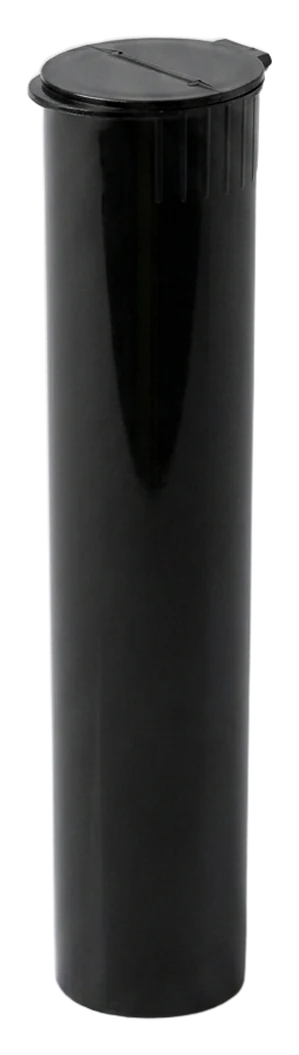
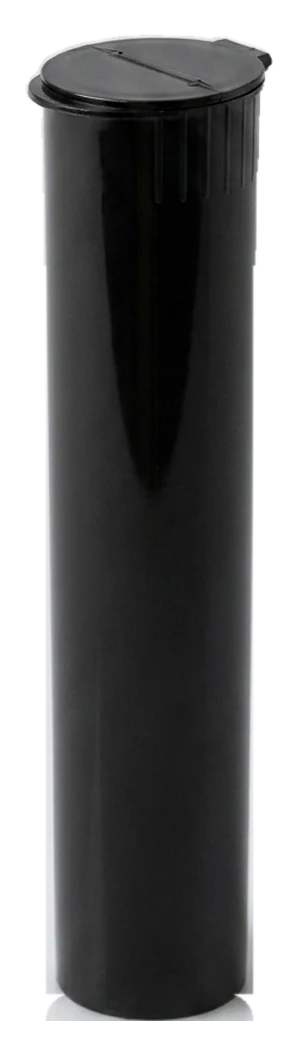
Hero back to black (stands out on light bg); flat tube bases (was wrongly rounded)
- Switch homepage showcase hero from clear to BLACK — clear is low-contrast on the
  light page; black reads as the marquee. Clear stays the in-stock SKU in catalog/buy.
- Rebuild all 4 cutout masks with a FLAT base + small corner radius (the prior
  straight-sided mask over-rounded the bottom into a U; pre-roll tubes stand flat).
  Reconstruct black too so the set is uniform.
- Lighten the hero studio ground to a subtle floor (black needs no contrast pool).
- Regenerate 116mm-black-hero.webp (360x1224); drop unused 116mm-clear-hero.webp.

diff --git a/css/app.css b/css/app.css
@@ -168,7 +168,7 @@ h1,h2,h3{font-family:var(--grot);font-weight:800;line-height:1.05;letter-spacing
 /* large product hero — soft studio pool fading to the surface, transparent tube, contact shadow (no frame) */
 .tube-photo--hero{display:flex;justify-content:center;align-items:flex-end;padding:clamp(20px,4vw,40px) 0;
   border-radius:var(--r-md);
-  background:radial-gradient(96% 82% at 50% 30%, #d3d8dd 0%, #dfe3e7 44%, rgba(236,238,234,.4) 68%, transparent 84%)}
+  background:radial-gradient(94% 78% at 50% 34%, var(--ref-2) 0%, rgba(236,238,234,.45) 52%, transparent 80%)}
 .tube-photo--hero img{width:auto;height:clamp(360px,46vw,520px);max-width:100%;
   filter:drop-shadow(0 30px 26px rgba(20,24,28,.22)) drop-shadow(0 7px 5px rgba(20,24,28,.16))}
 /* dimensioned schematic (kept as the technical drawing) */

diff --git a/index.html b/index.html
@@ -100,7 +100,7 @@
 
 
 <section class="section"><div class="container grid-phi">
-  <div class="tube-photo tube-photo--hero" data-reveal><img src="/assets/tubes/116mm-clear-hero.webp" alt="116mm child-resistant squeeze pop-top pre-roll tube in Natural / Clear, flat-top flip cap" width="364" height="1224" fetchpriority="high"></div>
+  <div class="tube-photo tube-photo--hero" data-reveal><img src="/assets/tubes/116mm-black-hero.webp" alt="116mm child-resistant squeeze pop-top pre-roll tube, black, flat-top flip cap" width="360" height="1224" fetchpriority="high"></div>
   <div data-reveal="right">
     <div class="eyebrow">✓ The product</div>
     <h2 class="h-sec mt-4">A flat-top squeeze pop-top.<br>Nothing twists.</h2>
